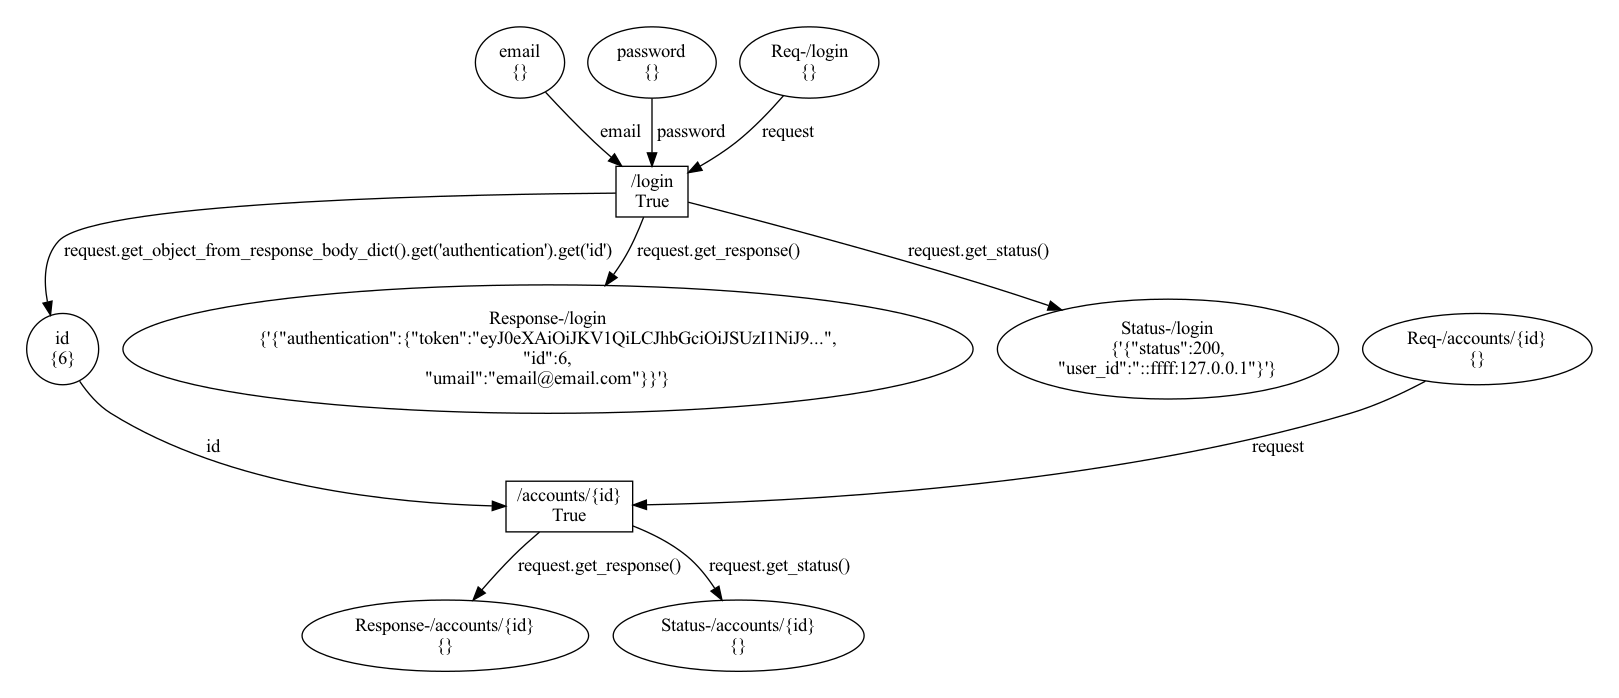
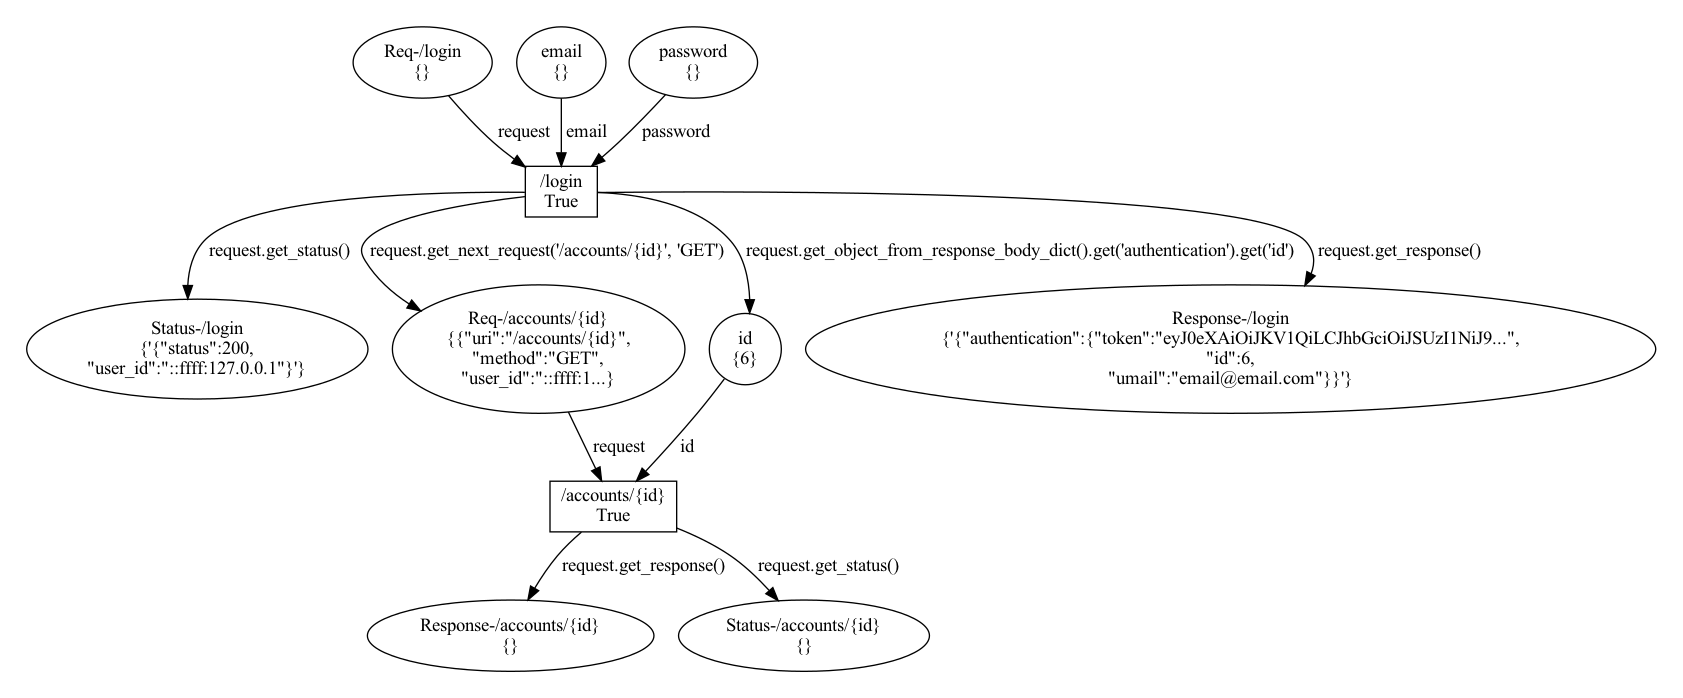
feat: minor refactor and connection between a transition and the following request

diff --git a/OpenAPI2PetriNet.py b/OpenAPI2PetriNet.py
@@ -10,6 +10,7 @@ from nets import *
 class OpenAPI2PetriNet:
 
     parser = ''
+    petri_net = None
 
     def get_parser(self):
         return self.parser
@@ -41,7 +42,7 @@ class OpenAPI2PetriNet:
 
                 responses = operationObjectValue.get('responses')
                 self.handle_responses(petri_net, uri, transition, responses)
-    
+        self.petri_net = petri_net
         return petri_net
 
     def create_transition_and_basic_places(self, petri_net, uri_login):
@@ -115,6 +116,18 @@ class OpenAPI2PetriNet:
                 return response[0]
         return None
 
+    def get_place_by_name(self, name):
+        response = [x for x in self.petri_net.place() if x.name == name]
+        if (response and len(response) > 0):
+            return response[0]
+        else:
+            # se o place nao foi encontrado pelo metodo anterior, e possivel que o path tenha um
+            # parametro
+            response = [x for x in self.petri_net.place() if StringUtils.compare_uri_with_model(x.name, name)]
+            if (response and len(response) > 0):
+                return response[0]
+        return None
+
     def get_transition_by_name(self, petri_net, name):
         response = [x for x in petri_net.transition() if x.name == name]
         if (response and len(response) > 0):
@@ -123,6 +136,18 @@ class OpenAPI2PetriNet:
             # se o place nao foi encontrado pelo metodo anterior, e possivel que o path tenha um
             # parametro
             response = [x for x in petri_net.transition() if StringUtils.compare_uri_with_model(x.name, name)]
+            if (response and len(response) > 0):
+                return response[0]
+        return None
+
+    def get_transition_by_name(self, name):
+        response = [x for x in self.petri_net.transition() if x.name == name]
+        if (response and len(response) > 0):
+            return response[0]
+        else:
+            # se o place nao foi encontrado pelo metodo anterior, e possivel que o path tenha um
+            # parametro
+            response = [x for x in self.petri_net.transition() if StringUtils.compare_uri_with_model(x.name, name)]
             if (response and len(response) > 0):
                 return response[0]
         return None
@@ -168,24 +193,24 @@ class OpenAPI2PetriNet:
 
 
 
-    def fill_input_places(self, petri_net, log_json):
-        for transition in petri_net.transition():
+    def fill_input_places(self, log_json):
+        for transition in self.petri_net.transition():
             if (StringUtils.compare_uri_with_model(transition.name, log_json.get('uri') )):
                 # setting tokens related to RequestLine
                 place_req_name='Req-'+log_json.get('uri')
-                place = self.get_place_by_name(petri_net, place_req_name)
+                place = self.get_place_by_name(place_req_name)
                 if place:
                     place.tokens.add(ColouredToken(LogUtils.create_request_line_from_log(log_json)))
 
                     # given a transistion, check if we have some input to set
                     # setting tokens related to requestBody
                     request_body_parameter_names = [*log_json.get('requestBody').keys()] # convert dict to array
-                    transition = self.get_transition_by_name(petri_net, log_json.get('uri'))
+                    transition = self.get_transition_by_name(log_json.get('uri'))
                     places = transition.input()
                     for parameter_name in request_body_parameter_names:
                         for place in places:
                             # se o place for output de alguma transição, nao devemos colocar tokens
-                            if self.place_is_output(petri_net, place[0]):
+                            if self.place_is_output(self.petri_net, place[0]):
                                 continue
                             if place[0].name == parameter_name:
                                 place[0].add(ColouredToken(LogUtils.create_data_from_request_body_in_log(log_json, parameter_name)))

diff --git a/ColouredToken.py b/ColouredToken.py
@@ -2,6 +2,8 @@ import json
 
 USER_IDENTIFICATION = 'user_id'
 class ColouredToken:
+    json_dict = None
+    user_id = None
     
     def get_dict (self):
         return json.loads(self.json_dict)
@@ -48,8 +50,13 @@ class ColouredToken:
 
 
 class RequestResponseToken(ColouredToken):
-    response_body = ''
-    status_code = ''
+    # request data
+    uri = None
+    method = None
+    # user_id is in ColouredToken
+    # response data
+    response_body = None
+    status_code = None
 
     # def __init__ (self, json_dict, response) :
     #     self.response_body = json.dumps(response)
@@ -58,6 +65,8 @@ class RequestResponseToken(ColouredToken):
     def __init__ (self, json_dict, response, status) :
         self.response_body = json.dumps(response, separators=(',\n', ':'))
         self.status_code = status
+        self.uri = json_dict.get('uri')
+        self.method = json_dict.get('method')
         super().__init__(json_dict)
         
     def get_response_body_dict (self):
@@ -76,3 +85,16 @@ class RequestResponseToken(ColouredToken):
     def get_response(self):
         body = json.loads(self.response_body)
         return json.dumps(body.get('response_body'), separators=(',\n', ':'))
+
+    def _create_request_line(self, uri_str, method_str, ip_str):
+        return ColouredToken({
+            'uri': uri_str,
+            'method': method_str,
+            'user_id': ip_str
+        })
+
+    def get_next_request(self, uri_str, method_str):
+        if self.uri is None:
+            raise Exception("This token don't have request information")
+        next_request = self._create_request_line(uri_str, method_str, self.user_id)
+        return next_request

diff --git a/snakes_bola_example_01.py b/snakes_bola_example_01.py
@@ -17,7 +17,13 @@ logs_file.close()
 def temp_create_link(petri_net, open_api_to_petri_parser):
     transitions = petri_net.transition()
     transition = transitions[0]
-    place = open_api_to_petri_parser.get_place_by_name(petri_net, 'id')
+
+    # setting req arc
+    place = open_api_to_petri_parser.get_place_by_name('Req-/accounts/{id}')
+    petri_net.add_output(place.name, transition.name, Expression("request.get_next_request('/accounts/{id}', 'GET')"))
+    # Value(ColouredToken(LogUtils.create_request_line_from_log('/accounts/{id}', 'GET', '')))
+    # setting input1 arc
+    place = open_api_to_petri_parser.get_place_by_name('id')
     petri_net.add_output(place.name, transition.name, Expression("request.get_object_from_response_body_dict().get('authentication').get('id')"))
 
 
@@ -35,7 +41,7 @@ def main():
 
     log_line = logs_json[1]
     #fill_input_places(petri_net, log_line)
-    open_api_to_petri_parser.fill_input_places(petri_net, log_line)
+    open_api_to_petri_parser.fill_input_places(log_line)
     petri_net.draw("value-0.png")
     
 
@@ -50,7 +56,7 @@ def main():
     petri_net.draw("value-1.png")
     
     log_line = logs_json[3]
-    open_api_to_petri_parser.fill_input_places(petri_net, log_line)
+    open_api_to_petri_parser.fill_input_places(log_line)
     petri_net.draw("value-0.png")
 
     import ipdb; ipdb.set_trace()
